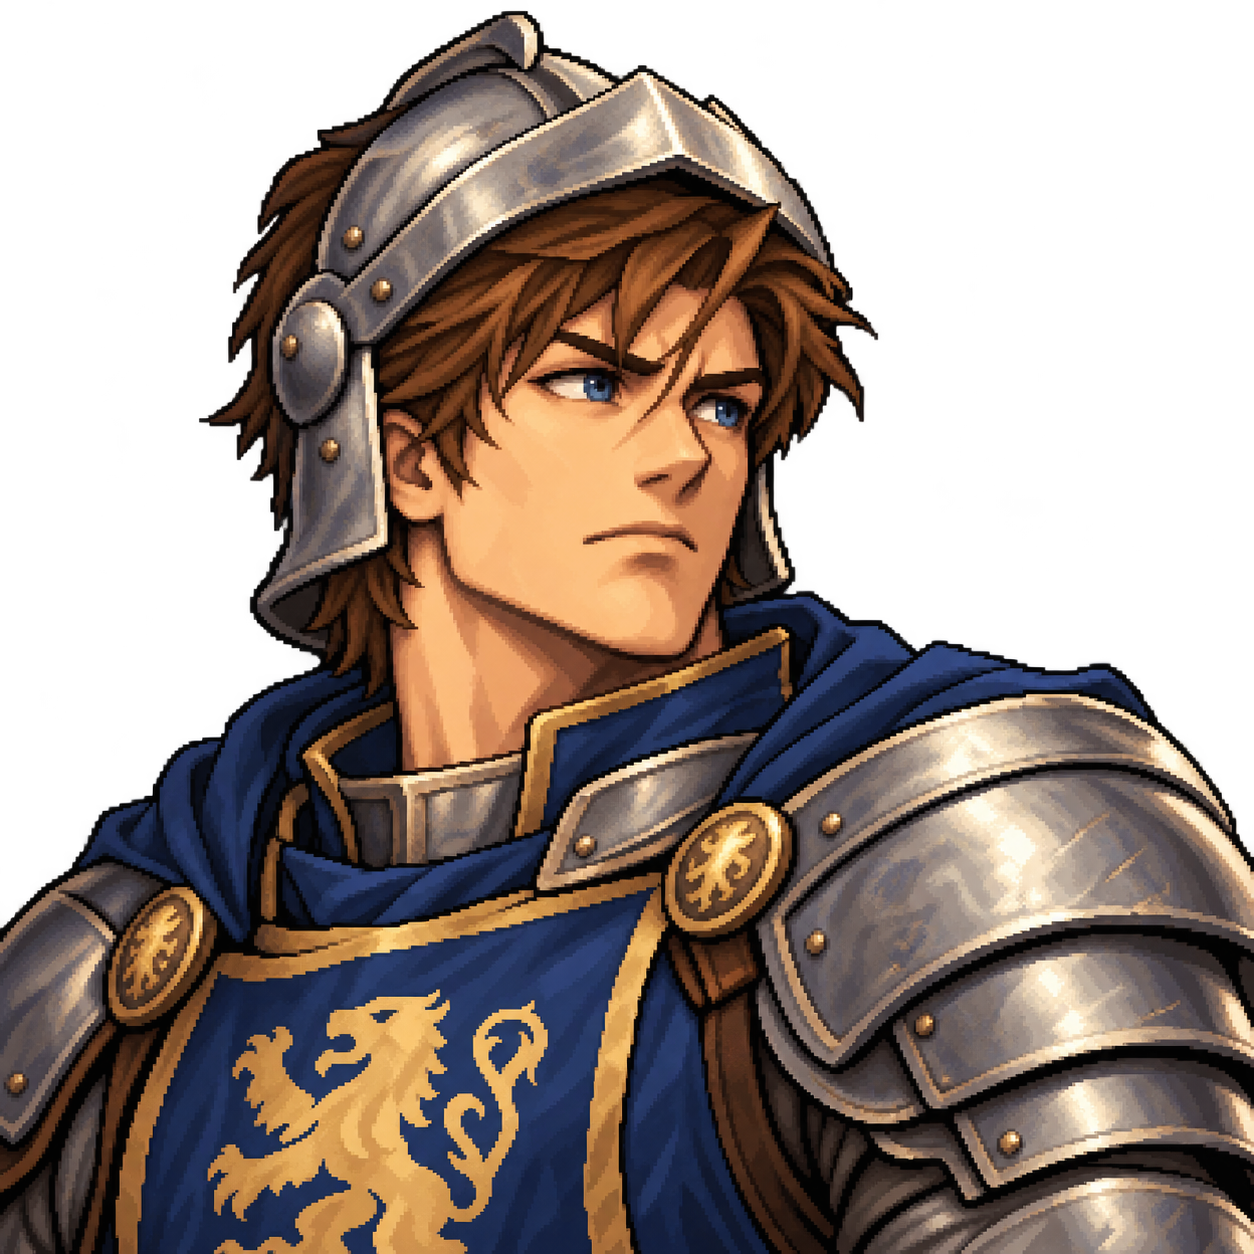
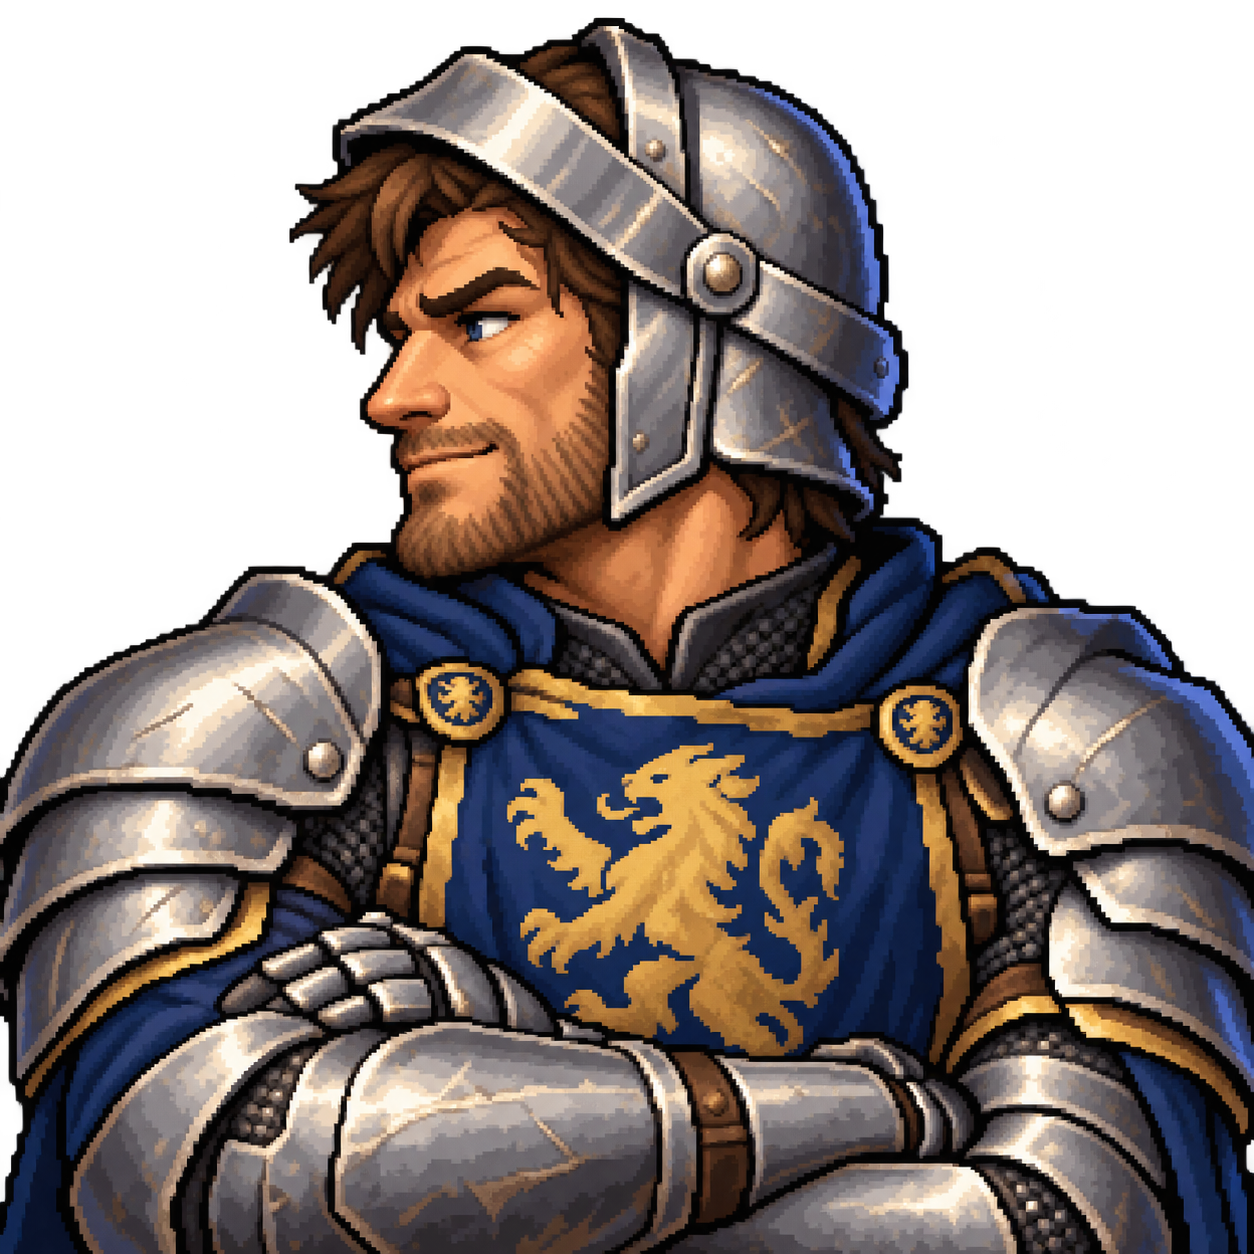
Give Lia and Bram distinct portrait faces and poses

diff --git a/Docs/HERO_MENU_PORTRAITS.md b/Docs/HERO_MENU_PORTRAITS.md
@@ -2,10 +2,18 @@
 
 Todos os menus usam os retratos ilustrados com proporções mais realistas, no mesmo acabamento de pixel art dos diálogos. Aren reutiliza `Assets/Resources/PixelArt/DialoguePortraits/aren.png`. Lia e Bram têm novos retratos em `Assets/Resources/PixelArt/HeroPortraits`, com seus cabelos, roupas e cores preservados.
 
+Cada herói tem fisionomia, expressão e pose próprias:
+
+| Herói | Rosto e expressão | Pose |
+| --- | --- | --- |
+| Aren | Rosto triangular jovem e expressão séria | Três quartos, olhando para a direita da imagem |
+| Lia | Rosto arredondado, bochechas cheias, nariz curto, sardas e sorriso acolhedor | Frontal, cabeça levemente inclinada, mão segurando o cajado ao lado do rosto |
+| Bram | Rosto largo e maduro, nariz robusto, barba curta e meio sorriso | Perfil para a esquerda, braços cruzados sobre a armadura |
+
 `HeroPortraitCatalog` associa o ID do herói à imagem, carrega cada textura uma vez e desenha o PNG inteiro com proporção preservada. O inventário e seus menus de Item, Materia, Equip, Status e Magic, as lojas e os slots de Save/Continue usam esse catálogo. O escurecimento de personagens em KO continua nos menus da equipe.
 
-Os retratos de Lia e Bram foram gerados individualmente com o image_gen integrado, usando o sprite de caminhada como referência de identidade e o retrato de Aren como referência de estilo. Os PNGs originais foram copiados sem recorte ou redimensionamento e preservam a transparência. A importação usa Point/Clamp, sem compressão, mipmaps ou cópia legível em CPU.
+Os retratos de Lia e Bram foram refeitos individualmente com o image_gen integrado, usando apenas o próprio sprite de caminhada como referência de identidade e traje. As fisionomias, expressões e poses foram descritas separadamente, sem usar o retrato de outro herói como modelo. Os PNGs originais foram copiados sem recorte ou redimensionamento e preservam a transparência. A importação usa Point/Clamp, sem compressão, mipmaps ou cópia legível em CPU.
 
 Prompts completos, referências e hashes: [ArtInputs/HeroMenuPortraits.prompts.json](ArtInputs/HeroMenuPortraits.prompts.json).
 
-Validação: compilação dos scripts com as bibliotecas da Unity, importação dos três recursos em projeto Unity isolado e inspeção visual dos menus em 1280 × 720.
+Validação da revisão: importação dos três recursos em projeto Unity isolado, comparação visual com Aren e nove capturas dos menus em 1280 × 720. Conferidos resolução nativa, transparência, Point/Clamp, ausência de compressão e mipmaps, enquadramento e escurecimento em KO.

diff --git a/AGENTS.md b/AGENTS.md
@@ -6,6 +6,10 @@ O projeto Unity está em `C:\Users\renan\Documents\Codex\2026-10-08\tenh\outputs
 
 Não adicione textos de ajuda, dicas de teclas/controle ou instruções explicativas nas telas sem pedido explícito do usuário. Siga as referências visuais fornecidas.
 
+## Retratos de personagens
+
+Cada personagem deve ter fisionomia, expressão, ângulo da cabeça e pose próprios. Não reutilize o mesmo rosto e a mesma pose mudando apenas cabelo e roupa. Use referências de estilo para o acabamento, sem copiar a fisionomia ou a composição de outro personagem. Compare os retratos lado a lado antes de concluir.
+
 ## Commit e push ao concluir atividades
 
 Preferência permanente do usuário, autorizada em 13 de outubro de 2026: após concluir cada atividade que altere o projeto, faça o commit e o push automaticamente, em todos os chats deste projeto.
